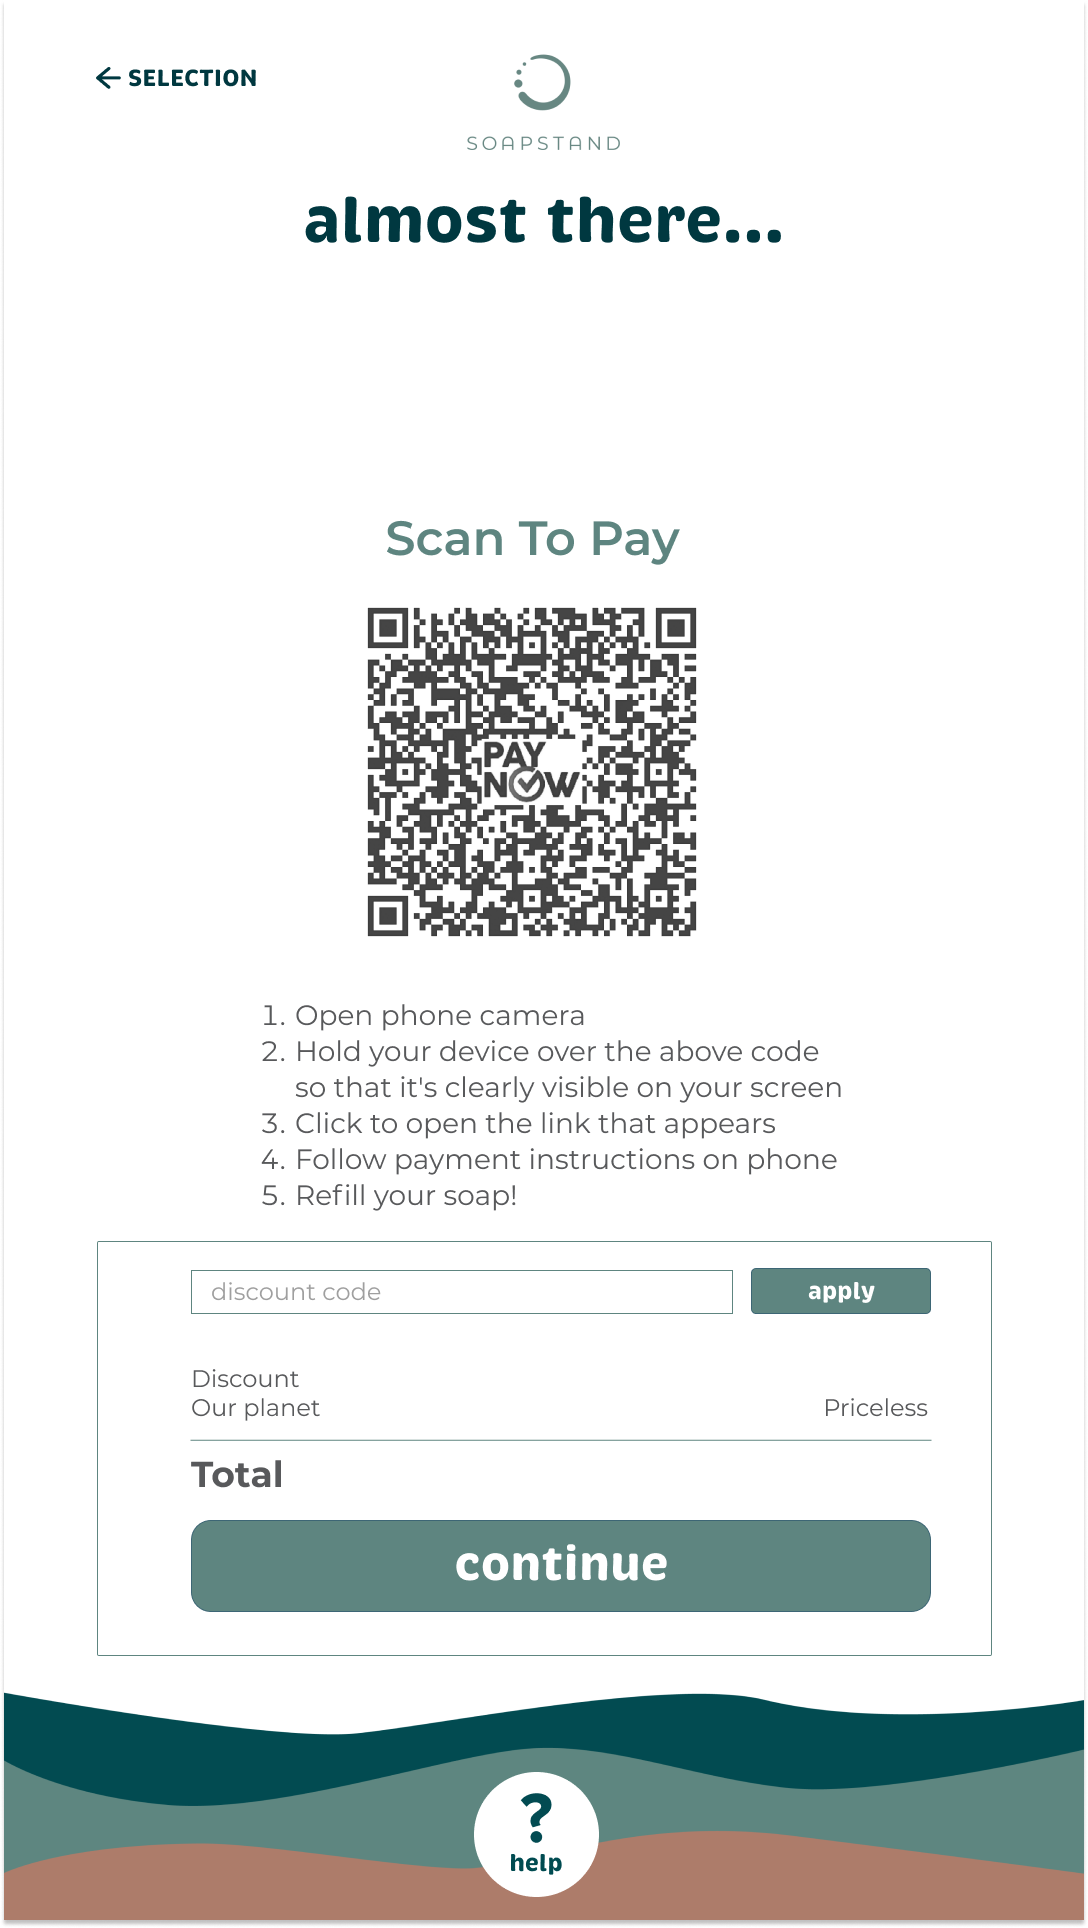
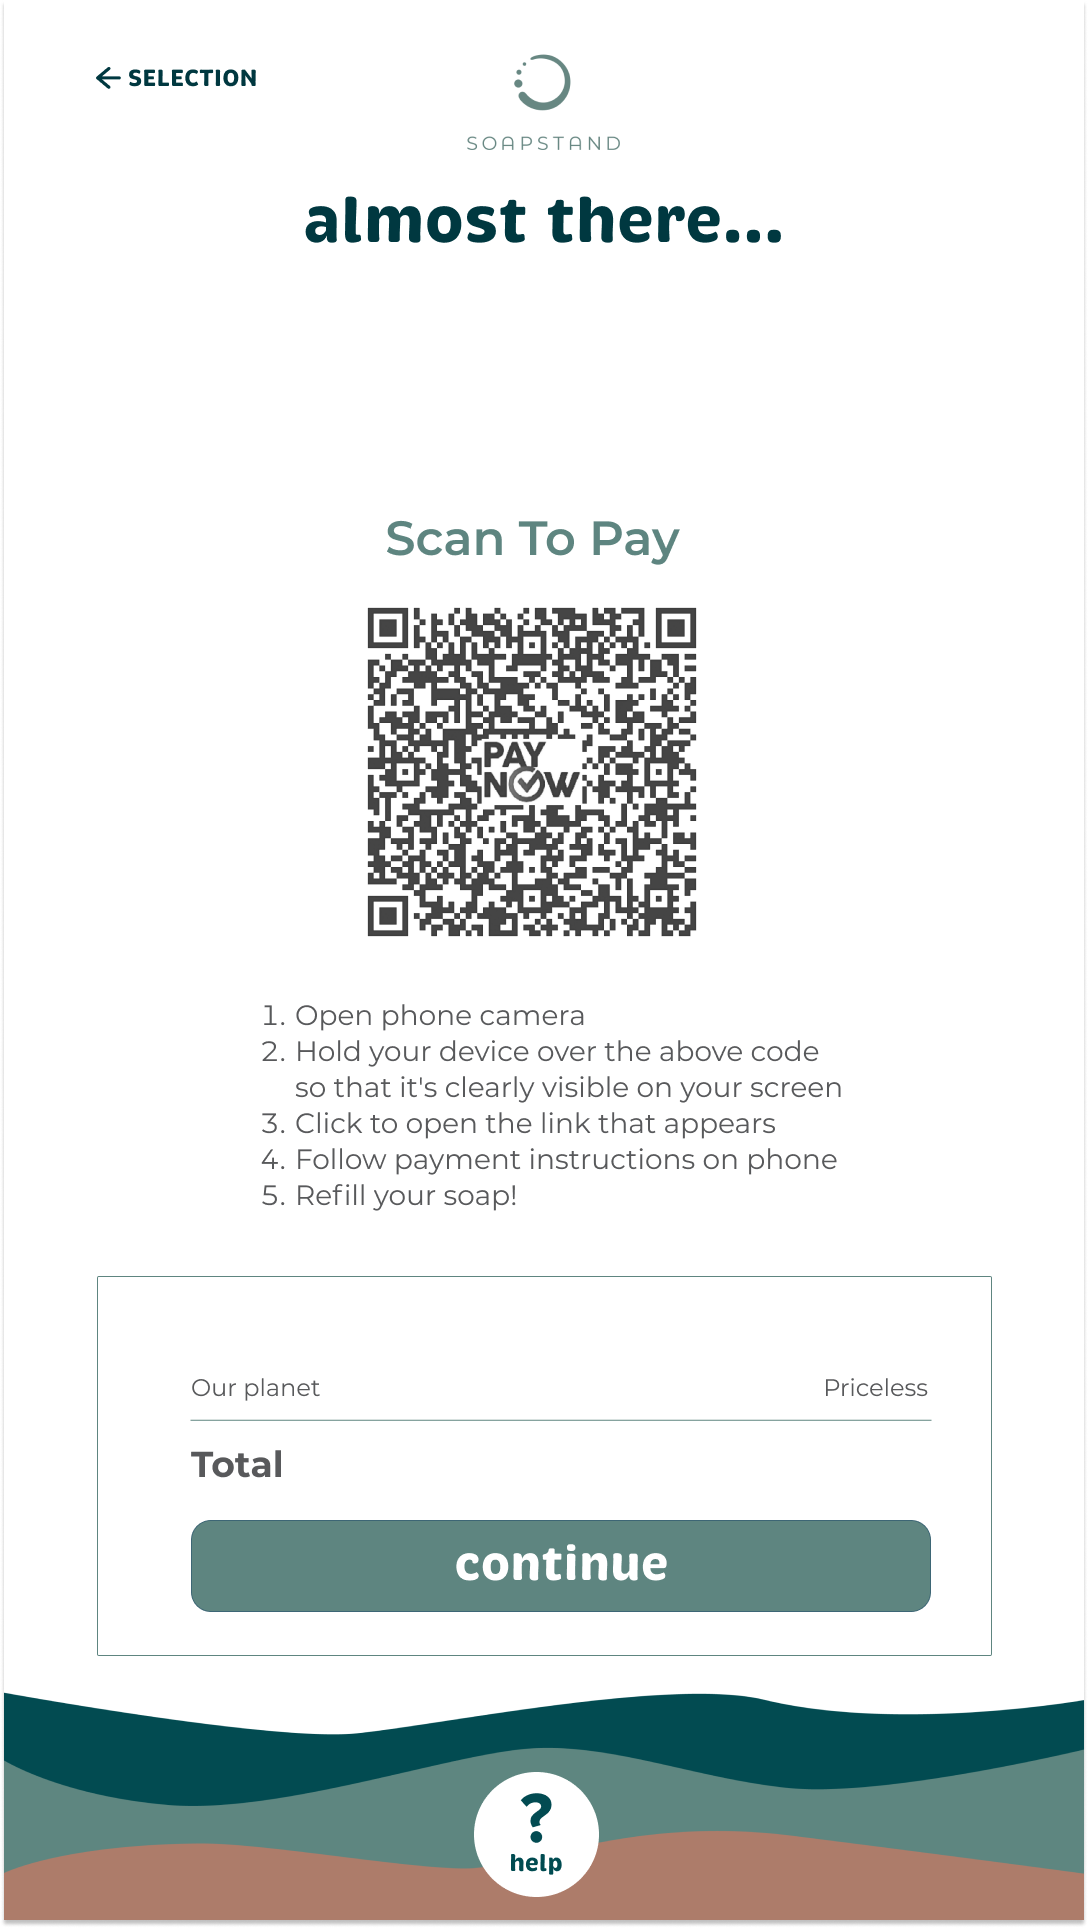
Checking if coupon is active or not

diff --git a/ui/payselect.cpp b/ui/payselect.cpp
@@ -481,37 +481,49 @@ void paySelect::on_applyPromo_Button_clicked()
 {
 
     QString promocode = ui->promoCode->text();
+    ui->promoKeyboard->hide();
     CURL *curl;
     CURLcode res;
     long http_code = 0;
-    readBuffer.clear();
-    curl = curl_easy_init();
-        
-    curl_easy_setopt(curl, CURLOPT_URL, ("https://soapstandportal.com/api/coupon/find/"+promocode).toUtf8().constData());
-    curl_easy_setopt(curl, CURLOPT_WRITEFUNCTION, WriteCallback_coupon);
-    curl_easy_setopt(curl, CURLOPT_WRITEDATA, &readBuffer);
-    res = curl_easy_perform(curl);
-    curl_easy_getinfo(curl, CURLINFO_RESPONSE_CODE, &http_code);
-    if(res!=CURLE_OK){
-    ui->promoCode->setStyleSheet("font-family: Montserrat; font-style: normal; font-weight: bold; font-size: 28px; line-height: 44px; color: #f44336;border-color:#f44336;");
-        qDebug()<< "Invalid Coupon" << endl;
-    }
-    else {
-        int new_percent;
-        
-        if(http_code==200){
-            json j_complete = json::parse(readBuffer);
-            new_percent = j_complete["discount_amount"];
-            updatePriceAfterPromo(new_percent);
-            promoPercent = new_percent;
-        }
-        else{
+    if(promocode != ""){
+        readBuffer.clear();
+        curl = curl_easy_init();
+            
+        curl_easy_setopt(curl, CURLOPT_URL, ("https://soapstandportal.com/api/coupon/find/"+promocode).toUtf8().constData());
+        curl_easy_setopt(curl, CURLOPT_WRITEFUNCTION, WriteCallback_coupon);
+        curl_easy_setopt(curl, CURLOPT_WRITEDATA, &readBuffer);
+        res = curl_easy_perform(curl);
+        curl_easy_getinfo(curl, CURLINFO_RESPONSE_CODE, &http_code);
+        if(res!=CURLE_OK){
+        ui->promoCode->setStyleSheet("font-family: Montserrat; font-style: normal; font-weight: bold; font-size: 28px; line-height: 44px; color: #f44336;border-color:#f44336;");
             qDebug()<< "Invalid Coupon" << endl;
-            ui->promoCode->setStyleSheet("font-family: Montserrat; font-style: normal; font-weight: bold; font-size: 28px; line-height: 44px; color: #f44336;border-color:#f44336;");
+        }
+        else {
+            int new_percent;
+            
+            if(http_code==200){
+                json coupon_obj = json::parse(readBuffer);
+                if(coupon_obj["active"]){
+                    new_percent = coupon_obj["discount_amount"];
+                    updatePriceAfterPromo(new_percent);
+                    promoPercent = new_percent;
+                }
+                else{
+                    qDebug()<< "Invalid Coupon" << endl;
+                    ui->promoCode->setStyleSheet("font-family: Montserrat; font-style: normal; font-weight: bold; font-size: 28px; line-height: 44px; color: #75756f;border-color:#f44336;");
+
+                }
+              
+            }
+            else{
+                qDebug()<< "Invalid Coupon" << endl;
+                ui->promoCode->setStyleSheet("font-family: Montserrat; font-style: normal; font-weight: bold; font-size: 28px; line-height: 44px; color: #f44336;border-color:#f44336;");
+
+            }
 
         }
-
     }
+    
 }
 
 
